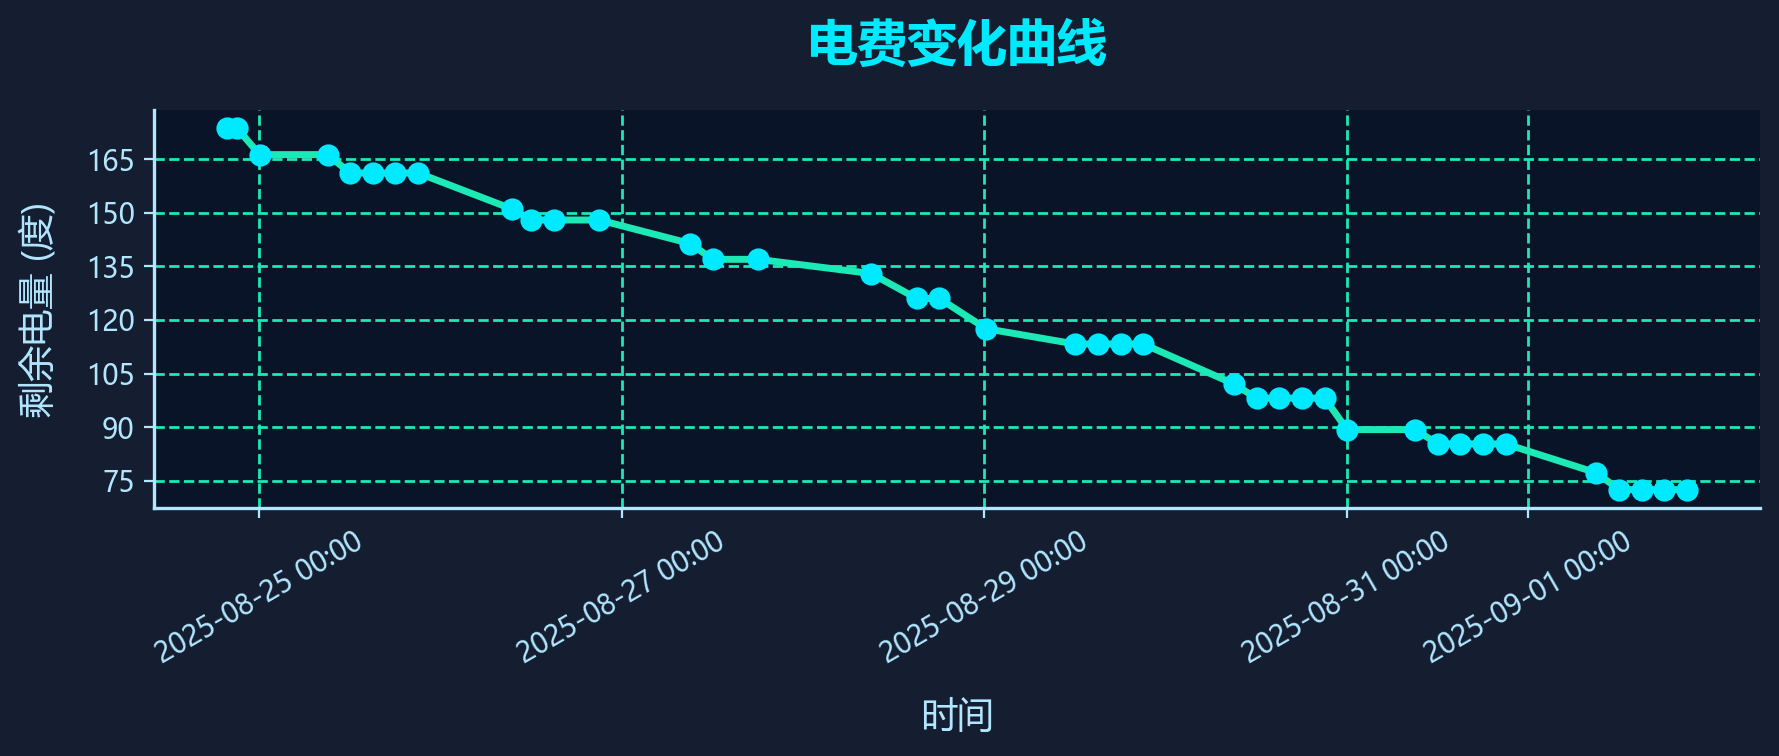
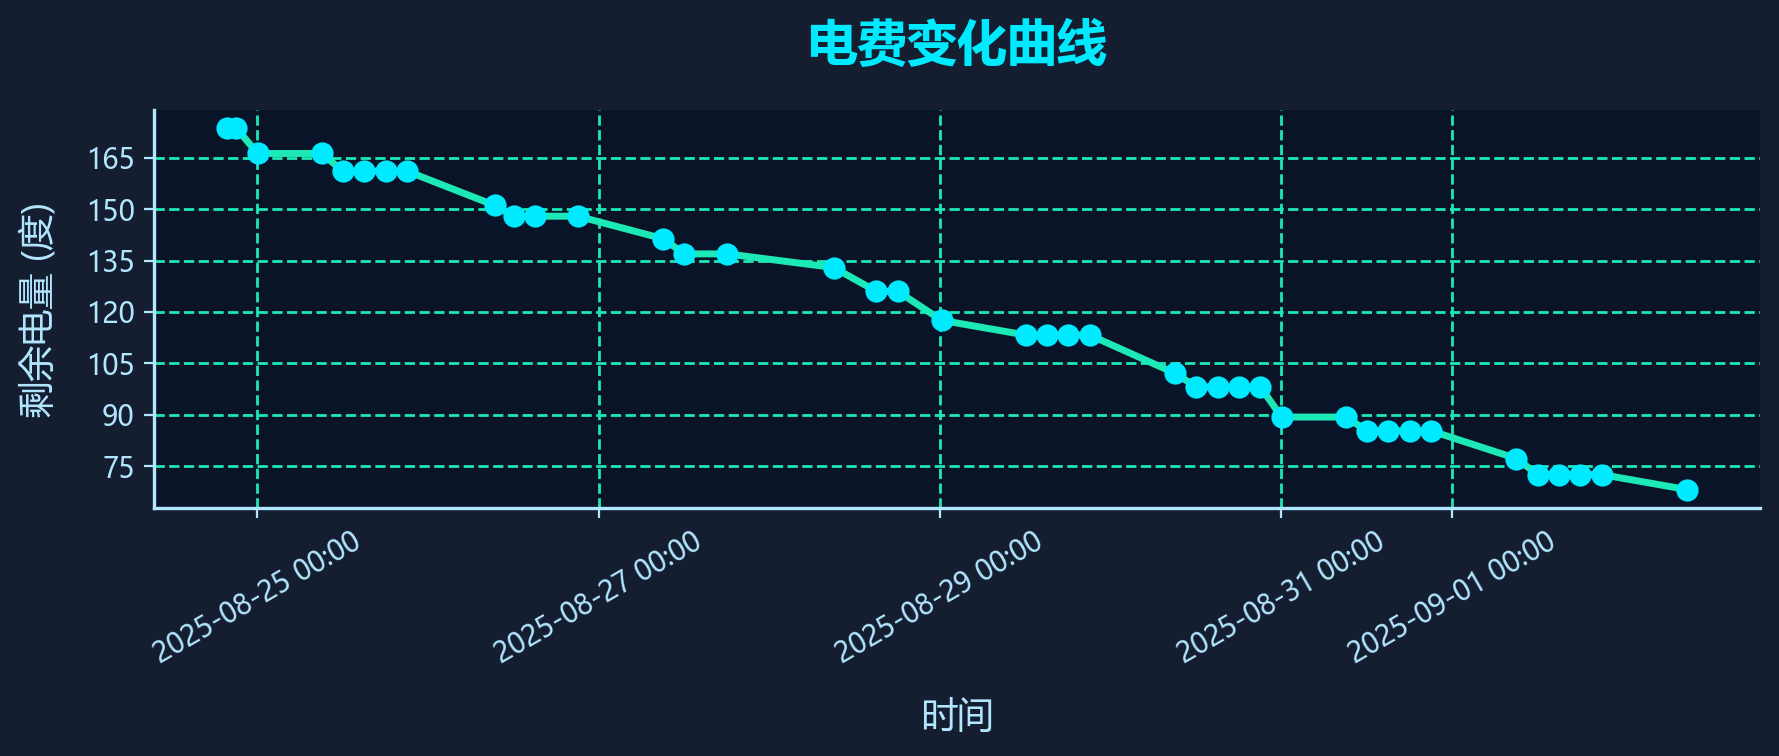
2025-09-02 09:03 自动提交电费变更

diff --git a/data/debug_page_source.html b/data/debug_page_source.html
@@ -2,7 +2,7 @@
     <meta http-equiv="Content-Type" content="text/html; charset=UTF-8">
     <meta http-equiv="X-UA-Compatible" content="IE=edge">
     <meta name="viewport" content="width=device-width, initial-scale=1, user-scalable=no">
-    <meta name="_csrf" content="e7144851-e0be-4b88-a32d-0763ffa55fe8">
+    <meta name="_csrf" content="6594d233-a924-4913-8142-ab763a29cac4">
     <meta name="_csrf_header" content="X-CSRF-TOKEN">
     <link type="image/png" href="/epay/images/nju/icon.png" rel="shortcut icon">
     <link type="text/css" rel="stylesheet" href="/epay/css/wxpage/weui.min.css">
@@ -32,7 +32,7 @@
 
 
 <body>
-<div id="app"><div class="centent"><div class="top"><div class="clearfix"><span class="fl">持卡人姓名：<i>吴相民</i></span></div> <div class="clearfix"><span class="fl">校园卡余额：<i class="green">0.00元</i></span></div></div> <div class="line"></div> <div class="cont"><div class="clearfix"><span class="fl">缴费地址：<i>仙林校区 18幢 18栋第17层1702</i></span></div> <div class="clearfix"><span class="fl">剩余电量：<i>72.51度</i><em></em></span></div> <!----> <!----></div> <div class="num clearfix"><div style="display: flex; flex-wrap: wrap;"><span class="active">10元</span><span class="">20元</span><span class="">50元</span><span class="">100元</span><span class="">200元</span><span class="">自定义</span></div></div> <div class="inputbox" style="display: none;"><input type="text" placeholder="请输入充值金额" pattern="[0-9]*" maxlength="4" id="amount"></div> <div class="footer">充值</div> <div class="desc">充值时间：每天00:05-23:55</div> <div class="wapat"><div class="wapat-inner"><div class="wapat-title">错误！</div> <div class="wapat-btn-box"><div class="wapat-btn wapat-btn-ok">确定</div></div></div></div></div></div>
+<div id="app"><div class="centent"><div class="top"><div class="clearfix"><span class="fl">持卡人姓名：<i>吴相民</i></span></div> <div class="clearfix"><span class="fl">校园卡余额：<i class="green">0.00元</i></span></div></div> <div class="line"></div> <div class="cont"><div class="clearfix"><span class="fl">缴费地址：<i>仙林校区 18幢 18栋第17层1702</i></span></div> <div class="clearfix"><span class="fl">剩余电量：<i>68.12度</i><em></em></span></div> <!----> <!----></div> <div class="num clearfix"><div style="display: flex; flex-wrap: wrap;"><span class="active">10元</span><span class="">20元</span><span class="">50元</span><span class="">100元</span><span class="">200元</span><span class="">自定义</span></div></div> <div class="inputbox" style="display: none;"><input type="text" placeholder="请输入充值金额" pattern="[0-9]*" maxlength="4" id="amount"></div> <div class="footer">充值</div> <div class="desc">充值时间：每天00:05-23:55</div> <div class="wapat"><div class="wapat-inner"><div class="wapat-title">错误！</div> <div class="wapat-btn-box"><div class="wapat-btn wapat-btn-ok">确定</div></div></div></div></div></div>
 
 
 
